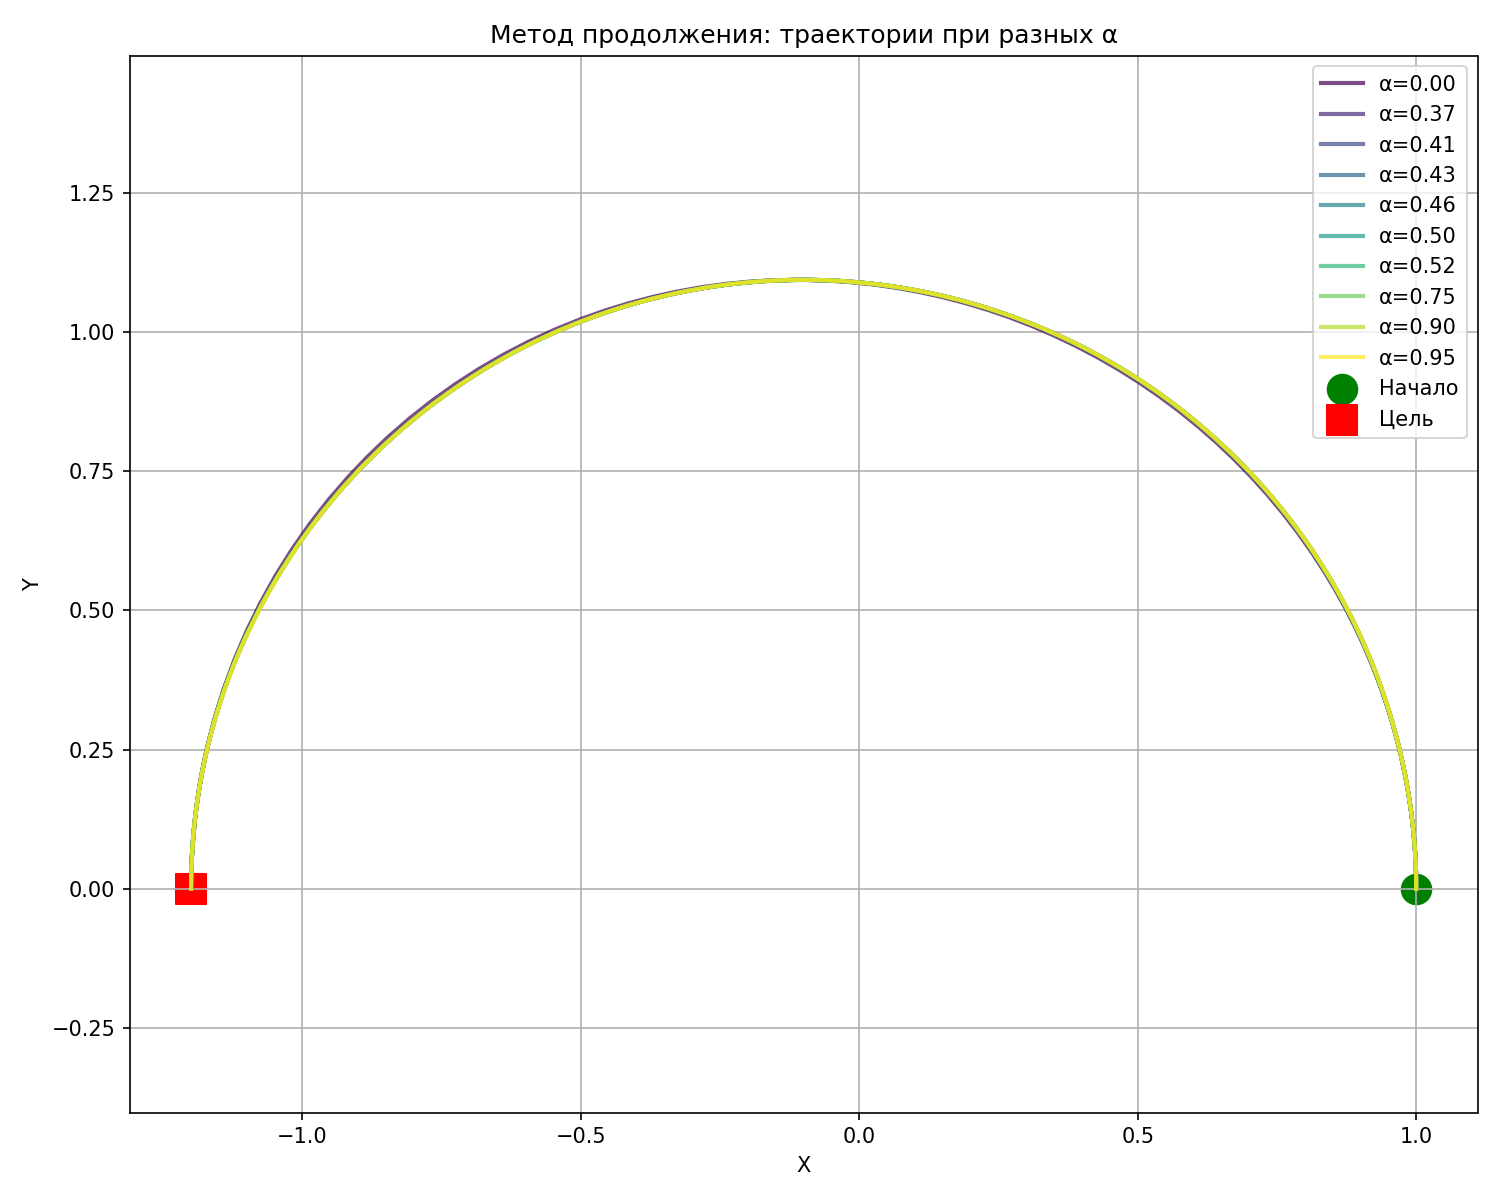
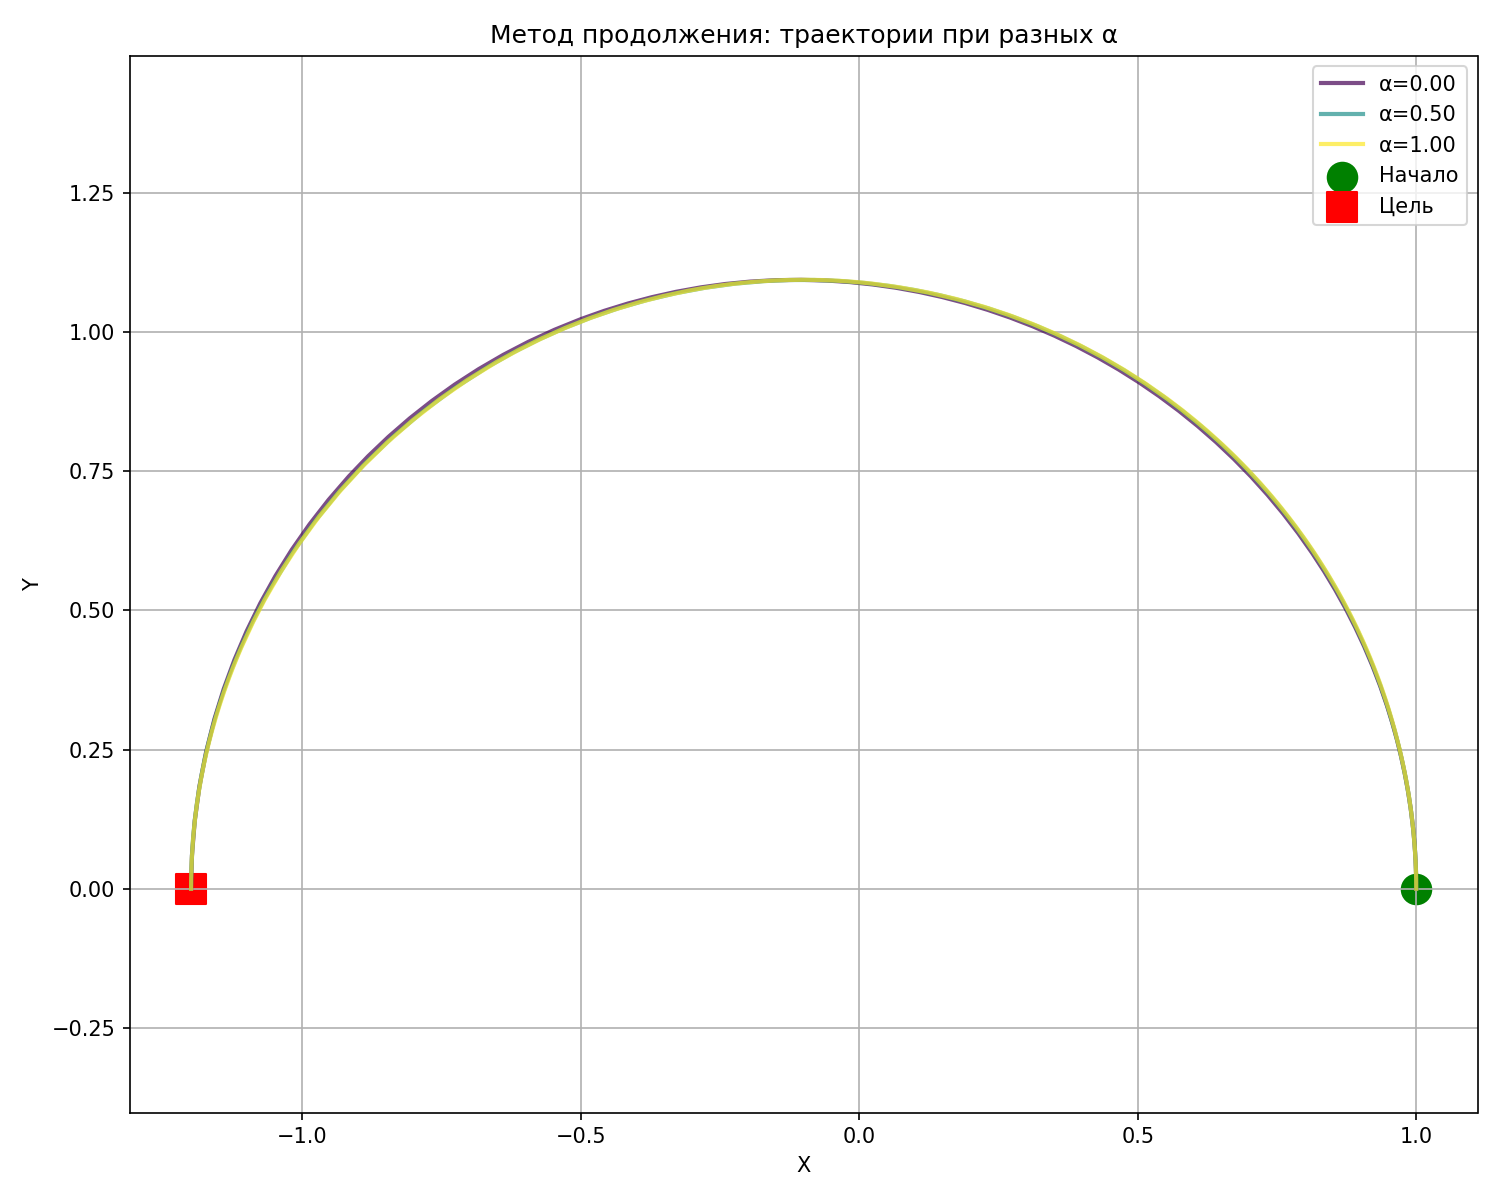
update

diff --git a/result_traj.py b/result_traj.py
@@ -328,11 +328,30 @@ if __name__ == "__main__":
         print(f"α = {res['alpha']:.3f}, a_max = {res['a_max']:.6f}")
 
     if results:
-        step = max(1, len(results) // 10)
-        plot_results = results[::step]
+        # Задаём список желаемых значений альфа
+        desired_alphas = [0.0, 0.5, 1.0]  # можно изменить или дополнить
+        
+        # Находим ближайшие решения к каждому желаемому значению
+        plot_results = []
+        for da in desired_alphas:
+            # Ищем индекс с минимальной разницей по alpha
+            idx = np.argmin([abs(r['alpha'] - da) for r in results])
+            # Добавляем решение, если оно ещё не добавлено (на случай совпадения)
+            if results[idx] not in plot_results:
+                plot_results.append(results[idx])
+        
+        # Если хотим гарантированно получить ровно 3-4 решения,
+        # можно также добавить самое первое (α=0) и последнее (макс. α), если их нет
+        if results[0] not in plot_results:
+            plot_results.insert(0, results[0])          # α=0 точно есть
+        if results[-1] not in plot_results:
+            plot_results.append(results[-1])             # последнее (возможно α≈1)
+
+        # Теперь строим графики только для отобранных решений
         solver.plot_trajectories_2d(plot_results, 'continuation_trajectories.png')
         solver.plot_thrust_profiles(plot_results, 'thrust_profiles.png')
 
+        # Дополнительно выводим информацию для α=0
         traj0 = results[0]['trajectory']
         pv = traj0.y[9:12]
         pv_norm = np.linalg.norm(pv, axis=0)
